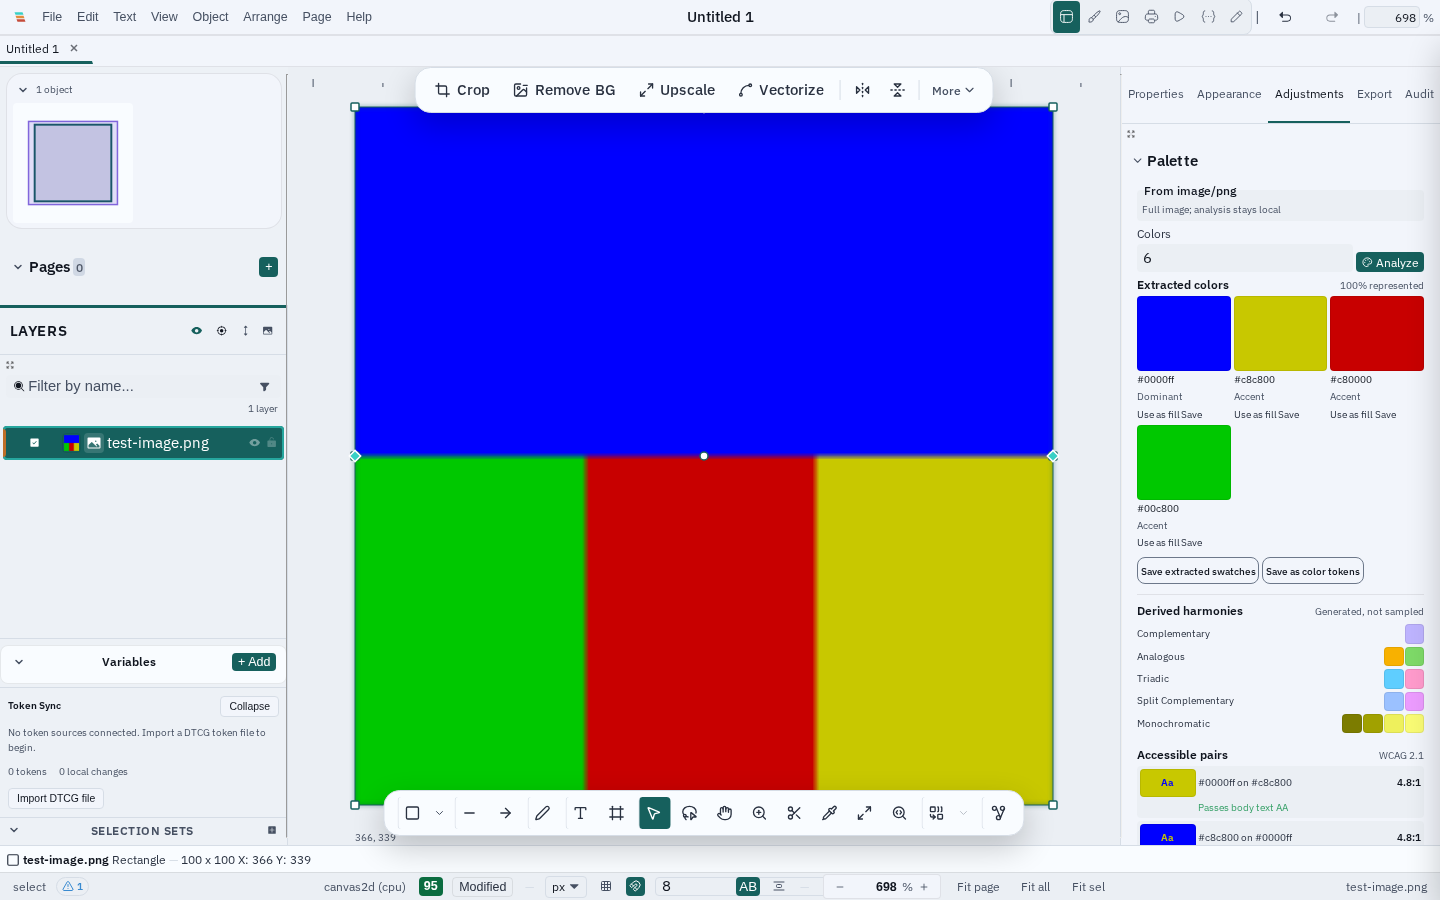
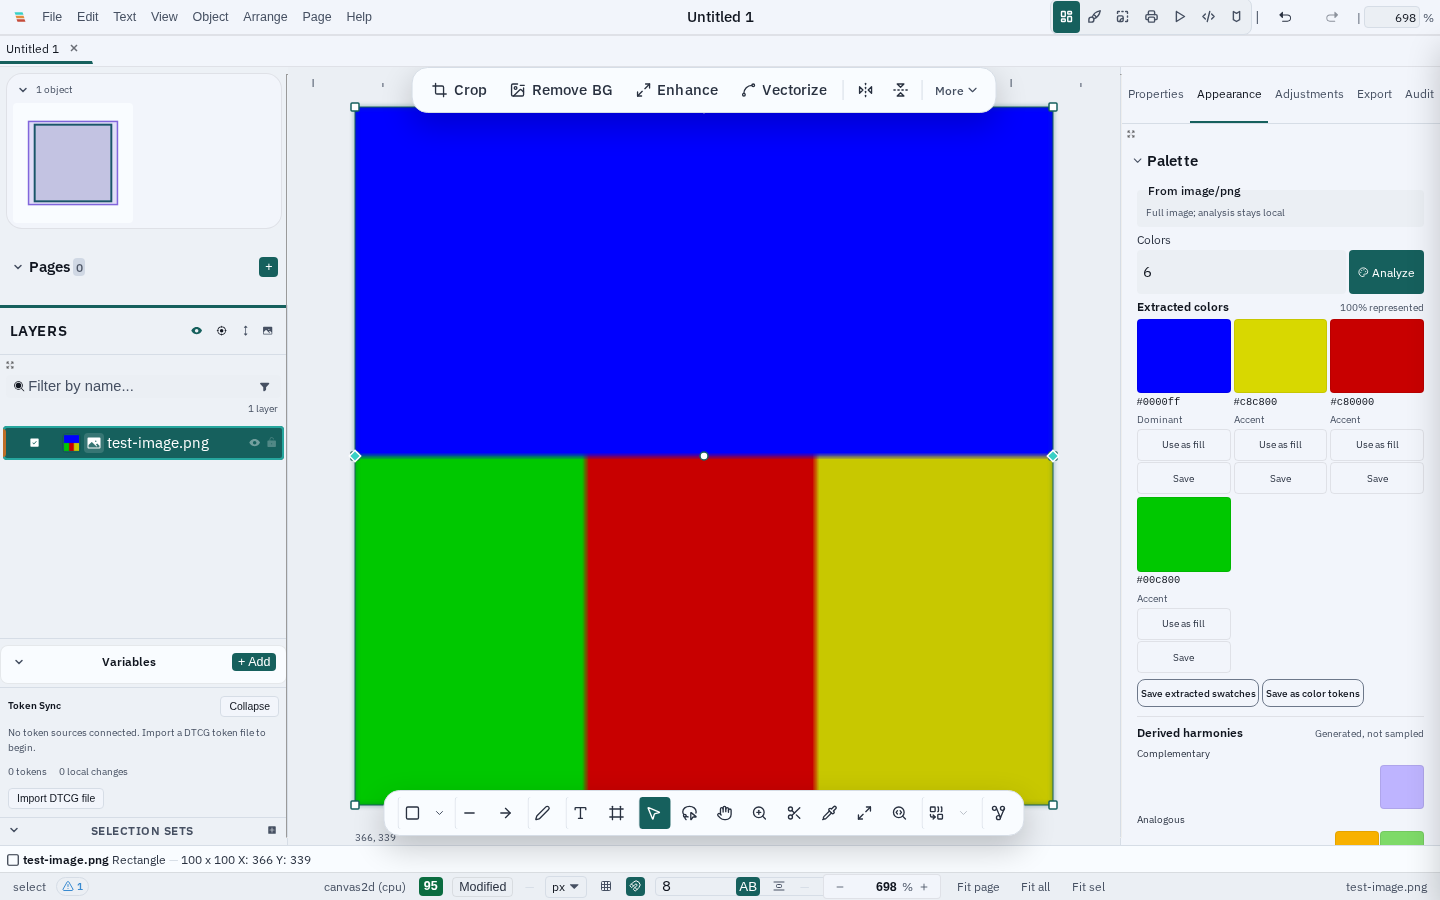
feat(website): refresh palette extraction marketing visual

diff --git a/apps/website/tests/e2e/palette-extraction.spec.ts b/apps/website/tests/e2e/palette-extraction.spec.ts
@@ -11,6 +11,9 @@ test.describe('palette extraction marketing surface', () => {
     await expect(page.getByText(/bounded preview is analysed locally/i)).toBeVisible();
     await expect(page.getByText(/Generated harmonies/i)).toBeVisible();
     await expect(page.getByText(/WCAG 2.1 body-text and large-text contrast/i)).toBeVisible();
+    const paletteVisual = page.locator('.feature-visual img');
+    await expect(paletteVisual).toBeVisible();
+    await expect(paletteVisual).toHaveAttribute('alt', /extracted swatches/i);
 
     await testInfo.attach('palette-feature-light', {
       body: await page.locator('.feature-page').screenshot(),
